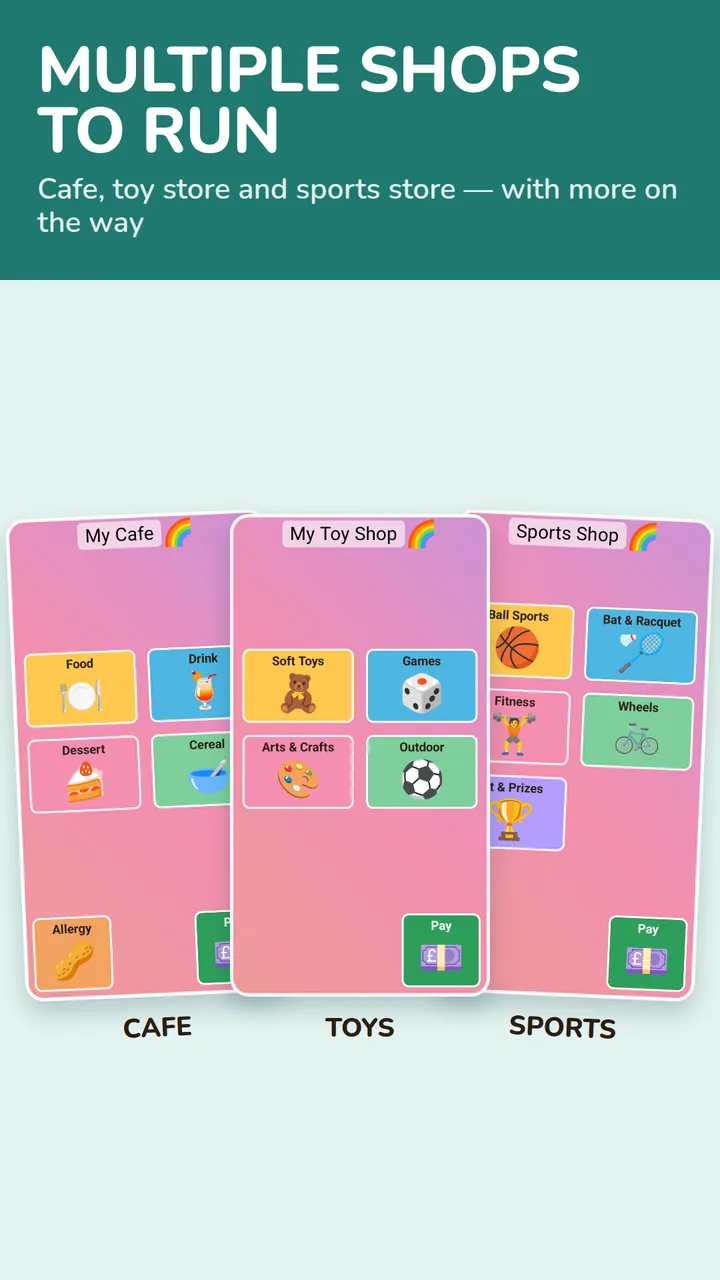
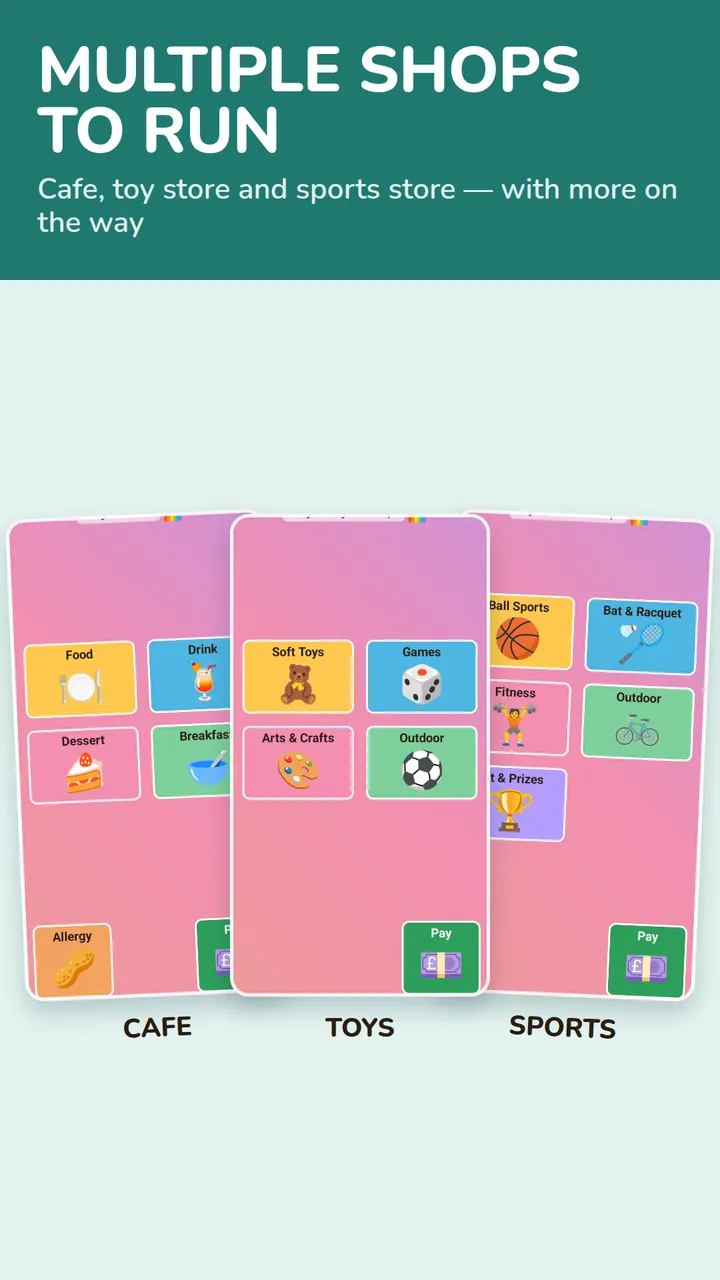
Update Kids Pretend Shop for 1.4: no ads
1.4 removes all advertising and the Remove Ads purchase, leaving the
Toy Store and Sports Store unlock as the only purchase. Say so in the
blurb and the parents card, refresh the screenshots from the 1.4 store
listing, and bring the alt text in line with the new menu and cards.

diff --git a/index.html b/index.html
@@ -123,6 +123,7 @@
         Kids love playing shop. Pretend Shop turns the device into their shop:
         take orders, fill the basket, watch the total add up, and "pay" at the till —
         big friendly buttons, fun sounds and a satisfying buzz on every tap.
+        No ads, no subscriptions — just imaginative play.
       </p>
 
       <ul class="features">
@@ -131,18 +132,18 @@
         <li><span aria-hidden="true">📲</span><strong>Tap to pay</strong>Hold two devices together for a pretend contactless payment.</li>
         <li><span aria-hidden="true">🥜</span><strong>What's in my food?</strong>Filter the menu by gluten, dairy, eggs or nuts. A gentle way in to talking about allergies.</li>
         <li><span aria-hidden="true">🦄</span><strong>Make it their shop</strong>They pick the name, the logo and the background.</li>
-        <li><span aria-hidden="true">🔒</span><strong>Made for little shopkeepers</strong>One-off ad-free unlock, no subscriptions, purchases behind a parent gate.</li>
+        <li><span aria-hidden="true">🔒</span><strong>Made for little shopkeepers</strong>No ads, no subscriptions. The Cafe is free; one one-off purchase, behind a parent gate, unlocks the Toy Store and Sports Store.</li>
       </ul>
 
       <div class="shots" role="group" aria-label="Kids Pretend Shop screenshots" tabindex="0">
-        <img src="assets/shots/pretend-shop/01.webp" alt="The cafe counter with Food, Drink, Dessert and Cereal buttons and a current order" width="720" height="1280" loading="lazy">
-        <img src="assets/shots/pretend-shop/02.webp" alt="Taking an order — pizza, pasta, hot dog and sandwich with prices and allergy tags" width="720" height="1280" loading="lazy">
+        <img src="assets/shots/pretend-shop/01.webp" alt="The cafe counter with Food, Drink, Dessert and Breakfast buttons and a current order" width="720" height="1280" loading="lazy">
+        <img src="assets/shots/pretend-shop/02.webp" alt="Taking an order — pizza, pasta, hot dog and fish fingers with prices and allergy tags" width="720" height="1280" loading="lazy">
         <img src="assets/shots/pretend-shop/03.webp" alt="The basket adding up to a ten pound total, with Allergy and Pay buttons" width="720" height="1280" loading="lazy">
         <img src="assets/shots/pretend-shop/04.webp" alt="Two phones held together for a pretend tap-to-pay payment" width="720" height="1280" loading="lazy">
         <img src="assets/shots/pretend-shop/05.webp" alt="The cafe, toy shop and sports shop side by side" width="720" height="1280" loading="lazy">
-        <img src="assets/shots/pretend-shop/06.webp" alt="The allergy picker with dairy, eggs, gluten, nuts and peanuts" width="720" height="1280" loading="lazy">
-        <img src="assets/shots/pretend-shop/07.webp" alt="Two customised shops named Emma's Cafe and Jake's Sports World" width="720" height="1280" loading="lazy">
-        <img src="assets/shots/pretend-shop/08.webp" alt="A cafe customised with a cloudy sky background and a unicorn logo" width="720" height="1280" loading="lazy">
+        <img src="assets/shots/pretend-shop/06.webp" alt="The allergy picker with dairy and nuts ticked, hiding 21 items from the menu" width="720" height="1280" loading="lazy">
+        <img src="assets/shots/pretend-shop/07.webp" alt="Two customised shops — a cafe on a cloudy sky background and a sports store on bright blue" width="720" height="1280" loading="lazy">
+        <img src="assets/shots/pretend-shop/08.webp" alt="Made for little shopkeepers — no ads, no subscriptions and parent-gated purchases" width="720" height="1280" loading="lazy">
       </div>
 
       <a class="badge" href="https://play.google.com/store/apps/details?id=com.byronludwig.pretendplay" rel="noopener">
